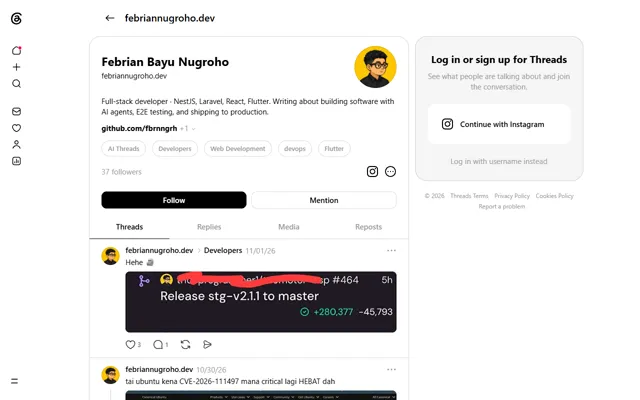
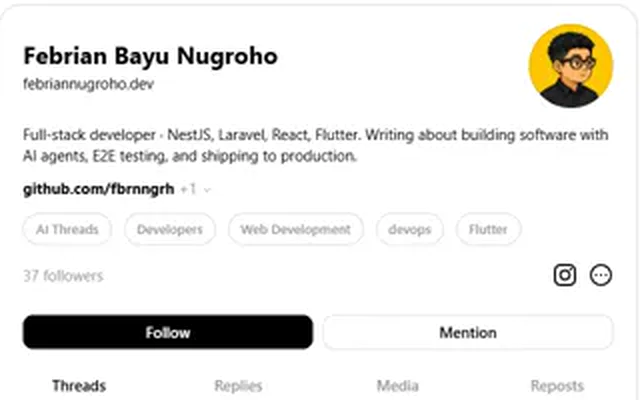
fix(previews): Threads shot shows only the profile header; no LinkedIn preview
The full Threads capture included posts with a partly redacted release
from another repository; the public site keeps to the profile header.
LinkedIn shows visitors only a login wall, so it stays a plain link.

diff --git a/apps/web/src/lib/content/site.ts b/apps/web/src/lib/content/site.ts
@@ -24,7 +24,7 @@ export const PERSON = {
 export const SOCIALS = [
   // preview: screenshot name in /images/previews/<preview>.webp, shown on hover/focus
   { label: "GitHub", short: "GH", href: "https://github.com/fbrnngrh", preview: "github" },
-  { label: "LinkedIn", short: "in", href: "https://www.linkedin.com/in/febrian-bayu-nugroho-ba044a1a0/", preview: "linkedin" },
+  { label: "LinkedIn", short: "in", href: "https://www.linkedin.com/in/febrian-bayu-nugroho-ba044a1a0/" } /* no preview: LinkedIn shows only a login wall to visitors */,
   { label: "Threads", short: "Th", href: "https://www.threads.net/@febriannugroho.dev", preview: "threads" },
   { label: "Instagram", short: "IG", href: "https://www.instagram.com/febriannugroho.dev" },
 ] as const;
